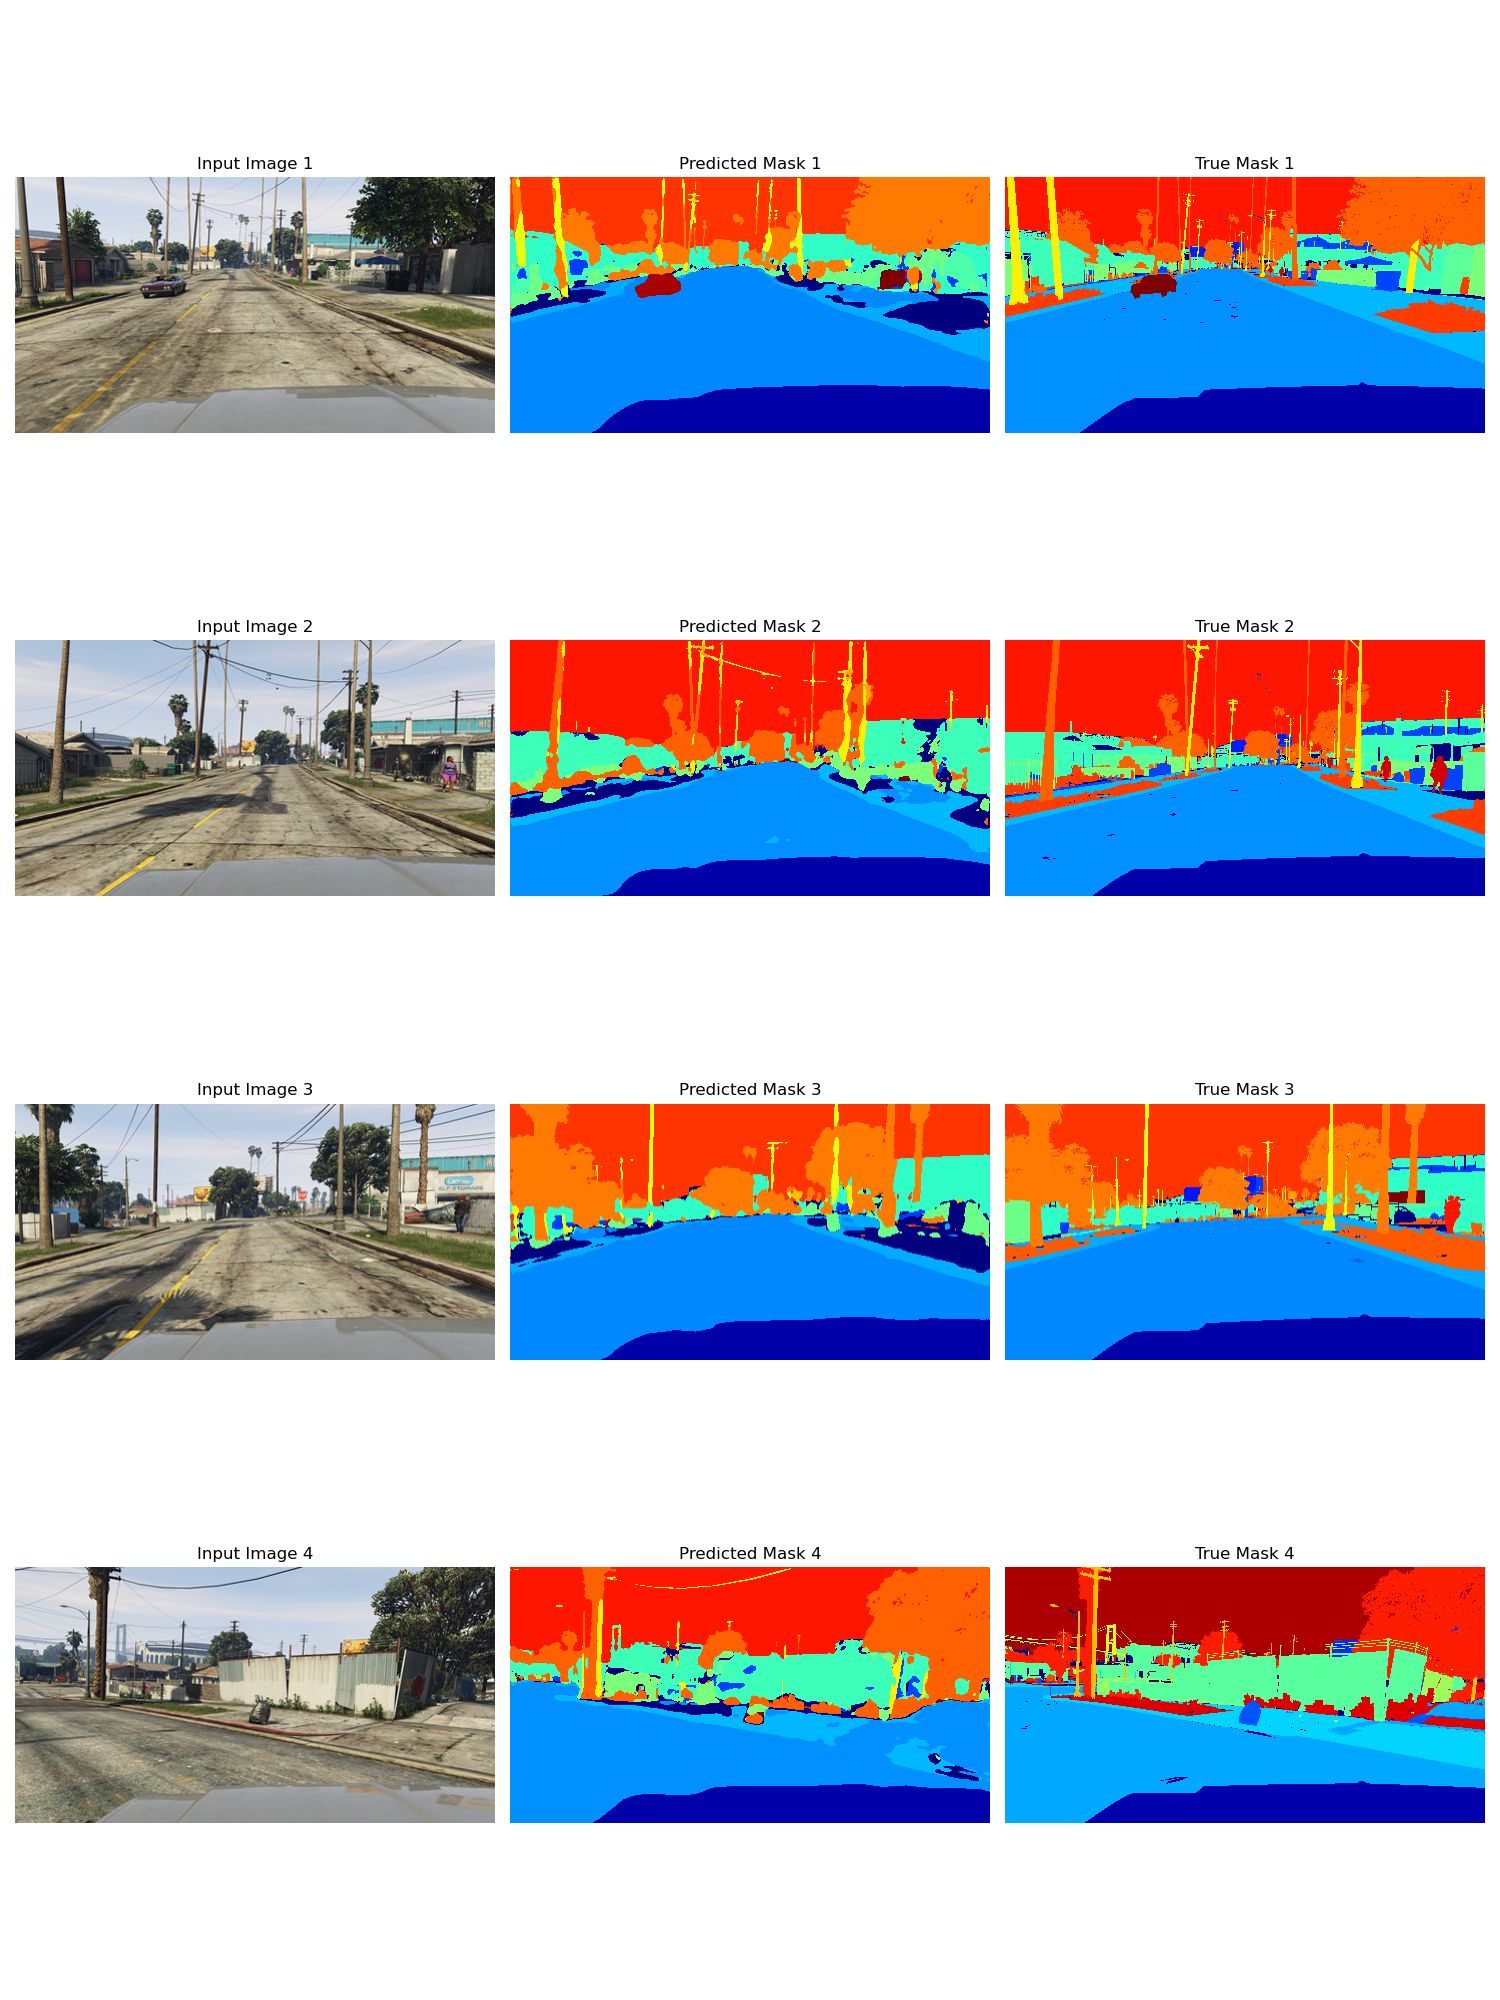
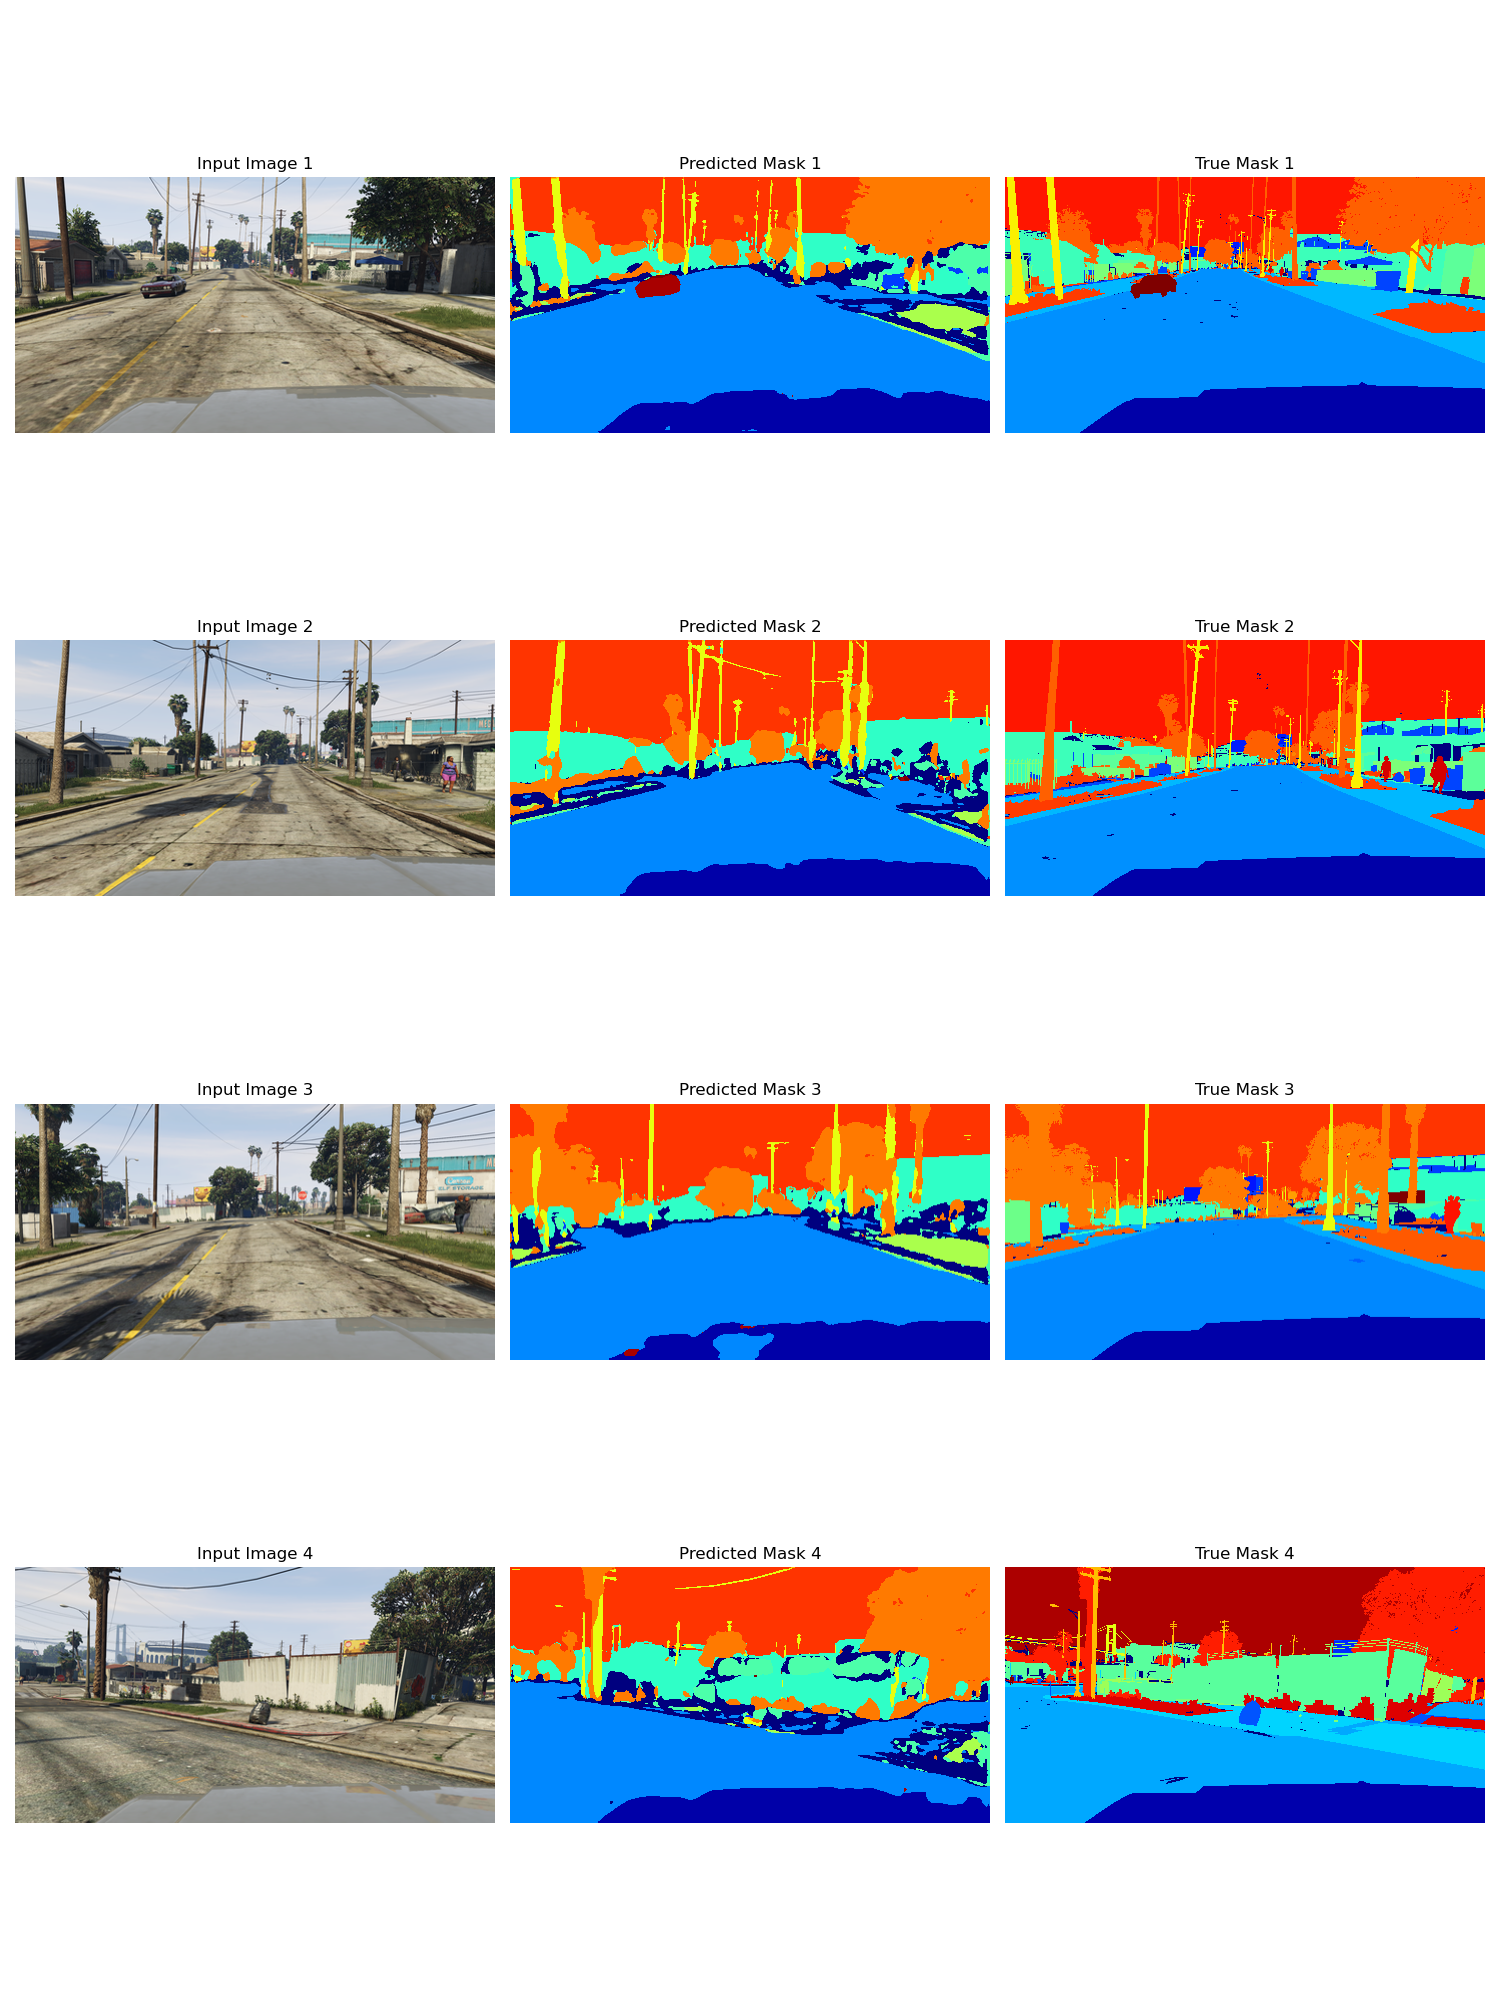
update readme

diff --git a/README.md b/README.md
@@ -13,7 +13,7 @@
 ## 1. Определение значений loss-функции, при которых маски сегментации выглядят правдоподобно
 
 Базовая модель u-net без бэкбона обучалась на 60 эпохах. Удовлетворительного результата так и не получилось достигнуть 
-по причине простой архитектуру нейросети и небольшого объема датасета. Минимальный лосс на валидации 1,4. 
+по причине простой архитектуру нейросети и небольшого объема датасета. Минимальное значение лосс-функции на валидации 1,4. 
 Ниже представлены скрины на 14 и 60 эпохе обучения. 
 
 Эпоха 14
@@ -26,7 +26,18 @@
 ![images](https://github.com/DaniilShd/NN_lab_5/blob/main/result_image/unet/unet.png)
 
 
-U-net спроектированная на базе предобученной модели vgg показала результата лучше. 
+U-net спроектированная на базе предобученной модели vgg показала результата лучше. Уже к 7-й эпохе обучения модель 
+продемонстрировала результаты, сопоставимые с показателями базовой U-Net после 60 эпох. 
+Минимальное значение лосс-функции на валидации
+
+Эпоха 7
+![images](https://github.com/DaniilShd/NN_lab_5/blob/main/result_image/unetvgg/epoch_14_comparison.png)
+
+Эпоха 60
+![images](https://github.com/DaniilShd/NN_lab_5/blob/main/result_image/unetvgg/epoch_59_comparison.png)
+
+Значения лосс-функции на тренировочных и валидационных данных. 
+![images](https://github.com/DaniilShd/NN_lab_5/blob/main/result_image/unetvgg/unetvgg.png)
 
 Правдоподобные маски сегментации начинают получаться при значениях loss-функции (Binary Cross-Entropy) в диапазоне [0.1–0.3].
 
